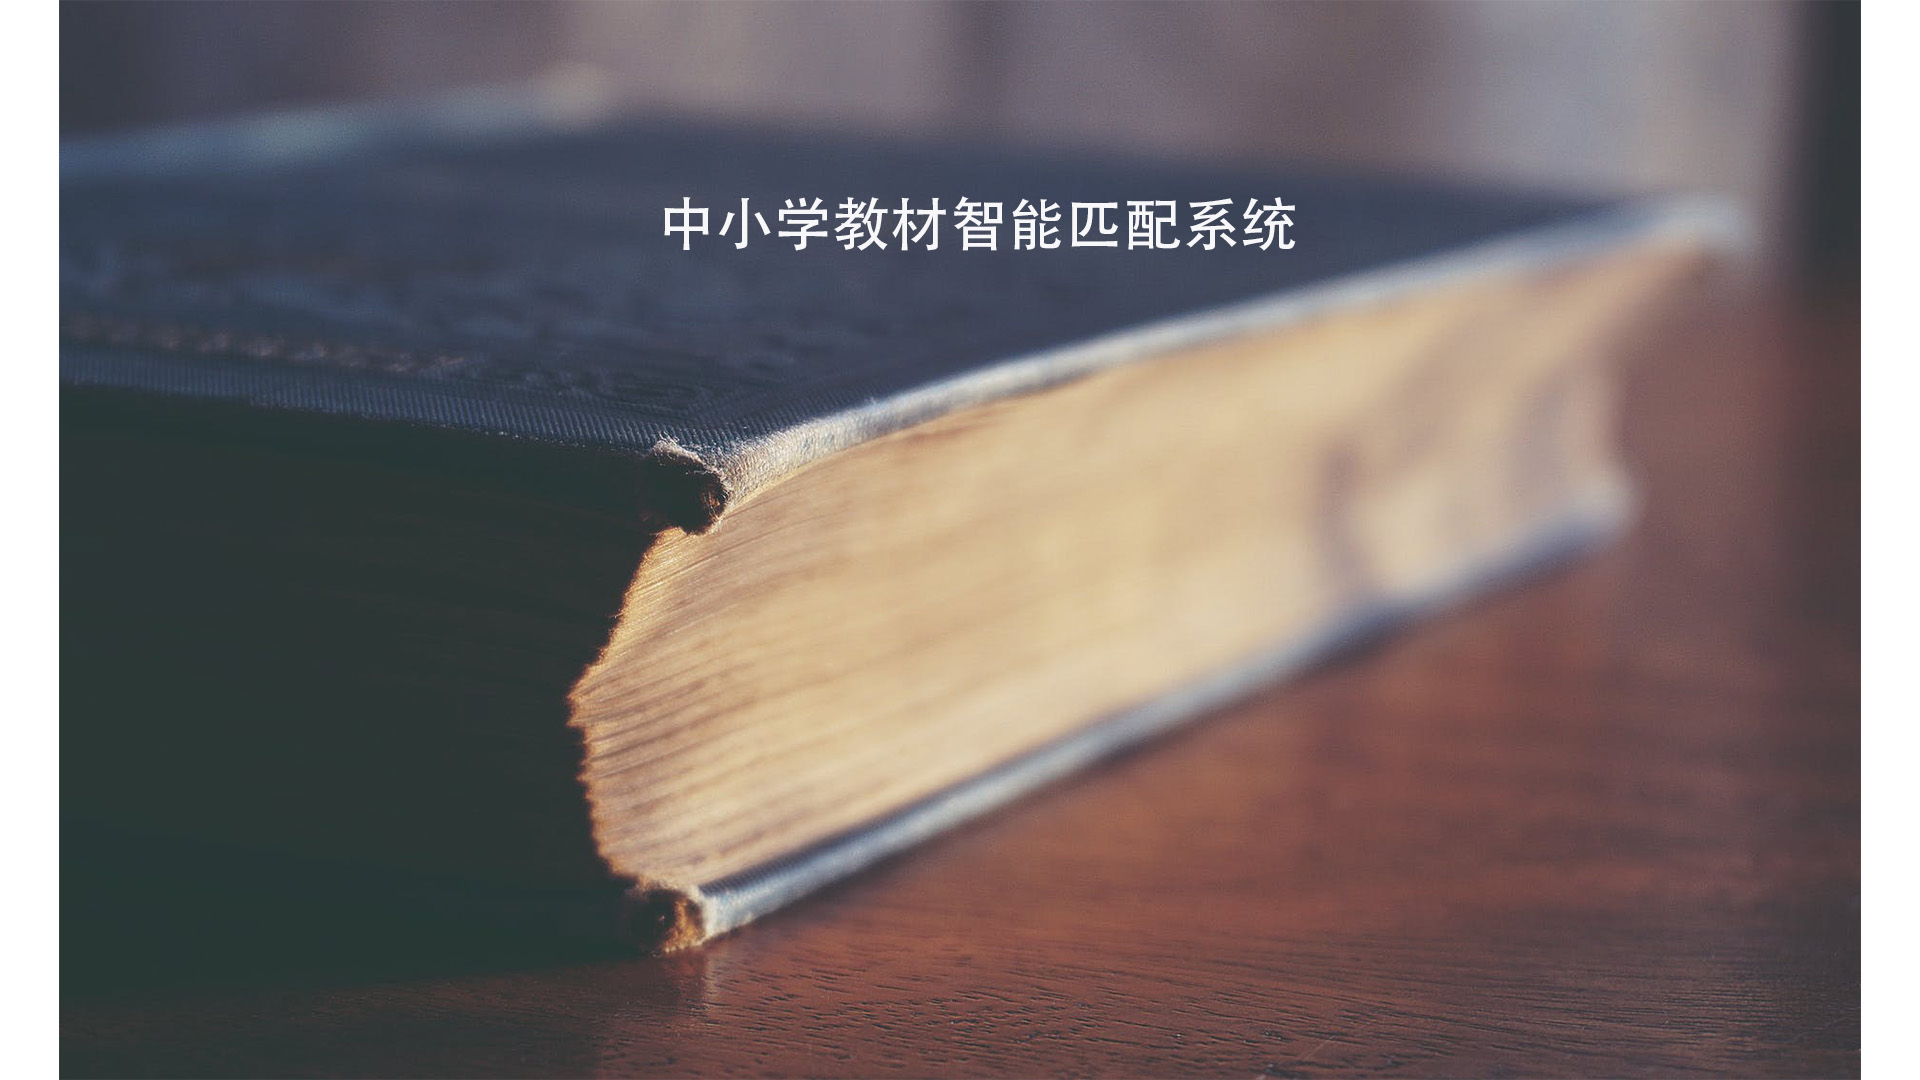
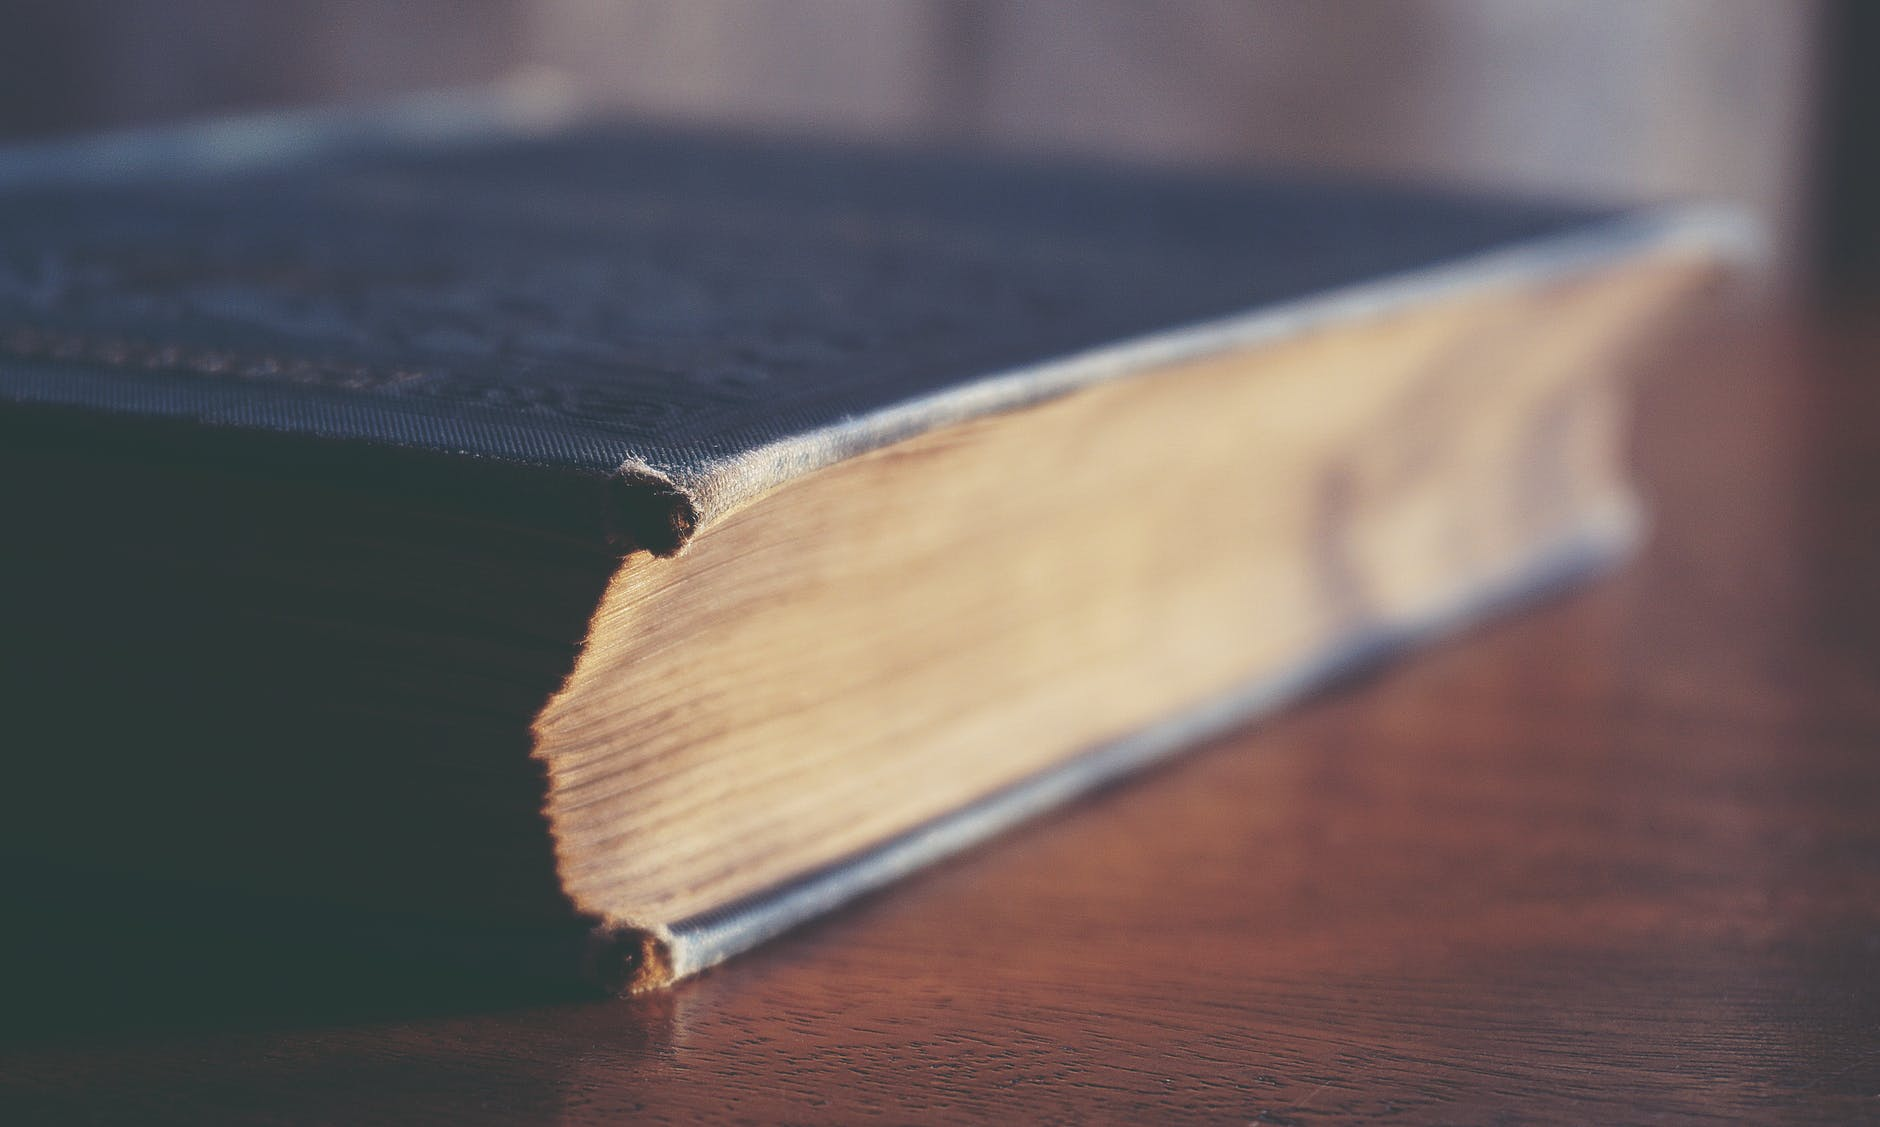
修改样式；

diff --git a/src/main/resources/templates/system/index/login.html b/src/main/resources/templates/system/index/login.html
@@ -17,6 +17,13 @@
 	</style>
 </head>
 <body class="loginBody">
+<div class="layui-center" style="position: fixed;
+    top: 60px;
+    left: 0;
+    right: 0;
+    bottom: 0;
+    color: white;
+    font-size: 4vw;">中小学教材智能匹配系统</div>
 	<form class="layui-form">
 		<div class="login_face"><img src="/resources/images/face2.png" class="userAvatar"></div>
 		<div class="layui-form-item input-item">
@@ -29,8 +36,10 @@
 		</div>
 		<div class="layui-form-item input-item" id="imgCode">
 			<label for="code">验证码</label>
+<!--			<canvas id="canvas" width="100" height="43"></canvas>-->
 			<input type="text" placeholder="请输入验证码" autocomplete="off" name="code" id="code" lay-verify="required" class="layui-input">
 			<img th:src="@{/login/getCode}" id="getcode" onclick="this.src=this.src+'?'">
+<!--			<img src="/login/getCode">-->
 		</div>
 		<div class="layui-form-item">
 			<button class="layui-btn layui-block" lay-filter="login" lay-submit>登录</button>
@@ -79,6 +88,7 @@
 	       	});
 	        return false;
 	    })
+
 
 	    //表单输入效果
 	    $(".loginBody .input-item").click(function(e){

diff --git a/src/main/resources/templates/business/allotment/allotmentManager.html b/src/main/resources/templates/business/allotment/allotmentManager.html
@@ -172,11 +172,11 @@ layui.use(['jquery','form','table','layer'],function(){
 		    ,page: true
 		    ,cols: [ [
 		      {type:'checkbox',align:'center'}
-		     ,{field:'id', title:'ID',align:'center',width:60}
+		     ,{field:'id', title:'ID',align:'center'}
 			 ,{field:'ordername', title:'期号名称',align:'center',width:200}
 			 ,{field:'schoolname', title:'学校',align:'center'}
 			 ,{field:'grade', title:'年级',align:'center'}
-			 ,{field:'bookname', title:'书名',align:'center',width:253}
+			 ,{field:'bookname', title:'书名',align:'center'}
 			 ,{field:'orderNum', title:'应配发数量',align:'center'}
 			 ,{field:'realNum', title:'实发数量',align:'center'}
 			 ,{field:'status', title:'是否配发',align:'center',templet:function(d){

diff --git a/src/main/resources/templates/system/user/userInfo.html b/src/main/resources/templates/system/user/userInfo.html
@@ -22,7 +22,7 @@
 	<div class="layui-col-md3 layui-col-xs12 user_right">
 		<div class="layui-upload-list">
 			<input type="hidden" name="imgpath" id="imgpath" >
-			<img class="layui-upload-img thumbImg layui-circle userFaceBtn userAvatar" th:src="'/file/showImageByPath?path='+${session.user.imgpath}"  id="userFace" style="margin-left: 34px;    width: 238px;">
+			<img class="layui-upload-img thumbImg layui-circle userFaceBtn userAvatar" th:src="'/file/showImageByPath?path='+${session.user.imgpath}"  id="userFace" style="margin-left: 34px;">
 		</div>
 		<button type="button" class="layui-btn layui-btn-primary userFaceBtn" style="margin-left:100px;"><i class="layui-icon">&#xe67c;</i> 更换头像</button>
 

diff --git a/src/main/resources/static/resources/js/cache.js b/src/main/resources/static/resources/js/cache.js
@@ -50,7 +50,7 @@ layui.use(['form','jquery',"layer"],function() {
                                 '<input type="password" class="admin-header-lock-input layui-input" autocomplete="off" placeholder="请输入密码解锁.." name="lockPwd" id="lockPwd" />'+
                                 '<button class="layui-btn" id="unlock">解锁</button>'+
                             '</div>'+
-                            // '<p>请输入“123456”，否则不会解锁成功哦！！！</p>'+
+                            '<p>请输入“123456”，否则不会解锁成功哦！！！</p>'+
                         '</div>',
             closeBtn : 0,
             shade : 0.9,

diff --git a/src/main/resources/static/resources/echarts/js/match.js b/src/main/resources/static/resources/echarts/js/match.js
@@ -211,8 +211,8 @@ function bar(data) {
         yAxisIndex: 0,
         data: lNum,
         itemStyle: {
-          color: "#777e96",
-          borderColor: "#fff",
+          color: "#FF0000",
+          borderColor: "#FF0000",
           opacity:0.45,
           borderWidth: 3,
           barBorderRadius: 15
@@ -235,7 +235,7 @@ function bar(data) {
         barWidth: 10,
         // 显示柱子内的文字
         label: {
-          show: false,
+          show: true,
           position: "inside",
           // {c} 会自动的解析为 数据  data里面的数据
           formatter: "{c}"

diff --git a/src/main/resources/templates/system/index/index.html b/src/main/resources/templates/system/index/index.html
@@ -93,7 +93,7 @@
 				<span>copyright® 2020 WOM</span>
 				<span style="margin: 129px;">
 					<a target="_blank" href="http://www.beian.gov.cn/portal/registerSystemInfo?recordcode=61019002001005" style="display:inline-block;text-decoration:none;height:20px;line-height:20px;">
-						<img src="/resources/images/ba_icon.png" style="float:left;    width: 20px;"/>陕公网安备 61019002001005号</a>
+						<img src="/resources/images/ba_icon.png" style="float:left;"/>陕公网安备 61019002001005号</a>
 			</span></p>
 
 		</div>

diff --git a/src/main/resources/templates/business/books/orderBooksManager.html b/src/main/resources/templates/business/books/orderBooksManager.html
@@ -265,7 +265,7 @@ layui.use(['jquery','form','table','layer','upload'],function(){
 		    ,url:'/book/loadAllBookByOrderId'
 		    ,toolbar: '#bookToolBar' //开启头部工具栏，并为其绑定左侧模板
 		    ,title: '自编书目数据表'
-		    ,height:'full-330'
+		    ,height:'full-340'
 		    ,page: true
 		    ,cols: [ [
 		    		{type:'checkbox',align:'center'}

diff --git a/src/main/resources/templates/business/order/orderManager.html b/src/main/resources/templates/business/order/orderManager.html
@@ -203,7 +203,7 @@ layui.use(['jquery','form','table','layer','laydate'],function(){
 		    ,url:'/order/loadAllOrder'
 		    ,toolbar: '#orderToolBar' //开启头部工具栏，并为其绑定左侧模板
 		    ,title: '期号数据表'
-		    ,height:'full-290'
+		    ,height:'full-280'
 		    ,page: true
 		    ,cols: [ [
 		      {type:'checkbox',align:'center'}

diff --git a/src/main/resources/templates/business/bookModel/bookModelManager.html b/src/main/resources/templates/business/bookModel/bookModelManager.html
@@ -192,7 +192,7 @@ layui.use(['jquery','form','table','layer'],function(){
 			,url:'/book/loadAllBook'
 			,toolbar: '#qbookToolBar' //开启头部工具栏，并为其绑定左侧模板
 			,title: '书目数据表'
-			,height:'full-320'
+			,height:'full-280'
 			,page: true
 			,cols: [ [
 				{type:'checkbox',align:'center'}

diff --git a/src/test/java/com/wm/jcgl/getGeomapInfo.java b/src/test/java/com/wm/jcgl/getGeomapInfo.java
@@ -42,7 +42,7 @@ public class getGeomapInfo {
                 JSONArray content = JSON.parseArray(objects.getString("content"));
 
                 //拿到经纬度
-                JSONObject jsonObject = content.getJSONObject( 0);
+                JSONObject jsonObject = content.getJSONObject(0);
                 String x = jsonObject.getString("navi_x");
                 String y = jsonObject.getString("navi_y");
 
